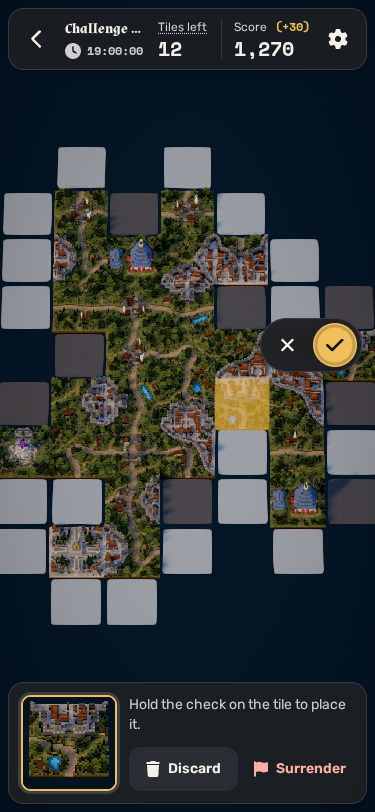
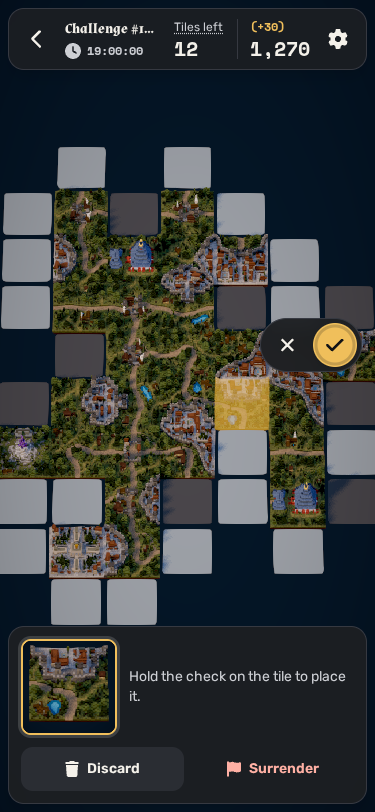
PLACE-POLISH: the hand panel and the HUD preview fit at 320 px (#568)
The wrap sweep found, at 320 px, Discard and Surrender overflowing beside the
tile in every board story, and the HUD clipped once the preview widened the
score's label line. Discard and Surrender now sit under the tile and the
hint, across the panel. Below the tablet width the preview takes the label's
place ("(+154)" over the score; "Score" kept for screen readers), so the
HUD's score column is no wider than without it; from the tablet width it
reads "Score (+154)". PreviewStress is main's Stress with the preview in
place of the gain. Captures retaken.

Changed region(s): [[0.0293, 0.7697, 0.9387, 0.9852], [0.4107, 0.0308, 0.8213, 0.0924], [0.352, 0.0308, 0.3813, 0.0616]]

diff --git a/packages/app/src/components/containers/hand-panel.tsx b/packages/app/src/components/containers/hand-panel.tsx
@@ -41,8 +41,8 @@ const EXPIRED_TEXT = "24 h passed since its purchase. Surrender to close it.";
 
 /**
  * The hand: the tile to place, Discard and Surrender, the hint and the errors. The placement is the bubble's, on the tile:
- * Rotate, Close and Validate, held (PLACE-POLISH, #568); the points it would score ride on the HUD's score. At 375 px the
- * tile stands left, the hint and the two buttons beside it, so the panel is about half its old height.
+ * Rotate, Close and Validate, held (PLACE-POLISH, #568); the points it would score ride on the HUD's score. The tile stands
+ * left with the hint beside it, Discard and Surrender under them across the panel (down to 320 px).
  */
 export function HandPanel({ tile, state, slotChosen, error, errorDetail, tileArt, renderTile, onDiscard, onSurrender, canSurrender = true, surrenderPending = false, coach, className }: HandPanelProps) {
   const busy = state === "pending";
@@ -65,7 +65,7 @@ export function HandPanel({ tile, state, slotChosen, error, errorDetail, tileArt
         message={state === "refused" ? (error ?? "Choose another slot.") : state === "expired" ? EXPIRED_TEXT : null}
         detail={errorDetail}
       />
-      <div className="flex items-stretch gap-3">
+      <div className="flex items-center gap-3">
         {/* Each `GameCanvas` owns its canvas and frees its WebGL context on unmount (R-dispose, #397). */}
         {renderTile && tile ? (
           <span data-view="render" className={chipVariants({ size: "lg", state: chipState })}>
@@ -74,28 +74,27 @@ export function HandPanel({ tile, state, slotChosen, error, errorDetail, tileArt
         ) : (
           <TileChip plan={tile?.plan ?? 0} orientation={tile?.orientation} art={tileArt} size="lg" state={chipState} />
         )}
-        <div className="flex min-w-0 flex-1 flex-col justify-between gap-2">
-          {/* What to do next: the rotation, the cancel and the placement are the bubble's, on the tile. */}
-          <p className="text-sm text-muted-foreground" data-testid="hand-hint">
-            {state === "placing" ? (slotChosen ? "Hold the check on the tile to place it." : "Tap a lit slot on the board.") : busy ? "Placing…" : null}
-          </p>
-          <div className={cn("grid gap-2", canSurrender ? "grid-cols-2" : "grid-cols-1")}>
-            <Button variant="secondary" onClick={onDiscard} disabled={locked || !tile} className={cn("px-2", coach === "discard" && COACH_RING)}>
-              <Icon name="trash" size="sm" /> Discard
-            </Button>
-            {canSurrender && (
-              <Button
-                variant={state === "expired" ? "destructive" : "ghost"}
-                onClick={onSurrender}
-                disabled={busy || state === "empty"}
-                loading={surrenderPending}
-                className={cn("px-2", state !== "expired" && "text-destructive-text hover:text-destructive-text")}
-              >
-                <Icon name="flag" size="sm" /> Surrender
-              </Button>
-            )}
-          </div>
-        </div>
+        {/* What to do next: the rotation, the cancel and the placement are the bubble's, on the tile. */}
+        <p className="min-w-0 flex-1 text-sm text-muted-foreground" data-testid="hand-hint">
+          {state === "placing" ? (slotChosen ? "Hold the check on the tile to place it." : "Tap a lit slot on the board.") : busy ? "Placing…" : null}
+        </p>
+      </div>
+      {/* Under the tile, the panel's whole width: beside it, two buttons do not fit at 320 px. */}
+      <div className={cn("grid gap-2", canSurrender ? "grid-cols-2" : "grid-cols-1")}>
+        <Button variant="secondary" onClick={onDiscard} disabled={locked || !tile} className={cn(coach === "discard" && COACH_RING)}>
+          <Icon name="trash" size="sm" /> Discard
+        </Button>
+        {canSurrender && (
+          <Button
+            variant={state === "expired" ? "destructive" : "ghost"}
+            onClick={onSurrender}
+            disabled={busy || state === "empty"}
+            loading={surrenderPending}
+            className={cn(state !== "expired" && "text-destructive-text hover:text-destructive-text")}
+          >
+            <Icon name="flag" size="sm" /> Surrender
+          </Button>
+        )}
       </div>
     </section>
   );

diff --git a/packages/app/src/components/elements/score.tsx b/packages/app/src/components/elements/score.tsx
@@ -34,8 +34,9 @@ export interface ScoreProps extends VariantProps<typeof scoreVariants> {
   /**
    * The points the tile placed, not yet validated, would score (the engine's preview, PLACE-POLISH, issue 568): "(+154)" in
    * the primary colour and in brackets, beside the value. With a label it rides on the label's line, in place of the last
-   * move's gain (`delta`, green, moving in), which it outdates: "Score (+154)" over "1,000" keeps the header's width at 375 px,
-   * where "1,000 (+154)" on one line left no room for the title beside the season wheel and the deck. Unset or null: none.
+   * move's gain (`delta`, green, moving in), which it outdates: "Score (+154)" over "1,000" from the tablet width; below it,
+   * "(+154)" over "1,000" (the label kept for screen readers), so the HUD keeps its width down to 320 px, where "1,000 (+154)"
+   * on one line left no room for the title beside the season wheel and the deck. Unset or null: none.
    */
   preview?: number | null;
   className?: string;
@@ -71,7 +72,8 @@ export function Score({ value, label, icon, iconClassName, delta, preview, size,
     <div className={cn("flex flex-col gap-1", className)}>
       {label && (
         <span className="flex items-baseline gap-2 text-xs text-muted-foreground">
-          {label}
+          {/* With a preview, below the tablet width the preview takes the label's place (read, not shown): the column keeps its width. */}
+          <span className={cn(previewed && "sr-only tablet:not-sr-only")}>{label}</span>
           {previewed ?? gain}
         </span>
       )}

diff --git a/packages/app/src/components/containers/game-hud.stories.tsx b/packages/app/src/components/containers/game-hud.stories.tsx
@@ -28,7 +28,7 @@ export const Stress: Story = { args: { title: LONG_LABEL, score: BIG_SCORE, delt
 export const WithWheel: Story = { args: { wheel: <SeasonWheel state="auto" point={{ season: "summer", position: 0.3 }} /> } };
 
 /**
- * A tile placed and not yet validated (#568): the points it would score beside the score, "Score (+154)" over "1,270", in
+ * A tile placed and not yet validated (#568): the points it would score over the score, "(+154)" over "1,270" on a phone ("Score (+154)" from the tablet width), in
  * the primary colour and in brackets, where a move's gain is green and moves in. At 375 px with the wheel, the deck and the
  * gear, the title keeps its room.
  */
@@ -38,8 +38,5 @@ export const WithPreview: Story = {
 };
 /** A gain was showing when the tile was placed: the preview takes its place (the gain is the last move's, outdated). */
 export const PreviewAfterAClosing: Story = { args: { score: 1640, delta: 370, preview: 154 } };
-/** WRAP360: the widest score with the widest preview at 375 px. */
-export const PreviewStress: Story = {
-  args: { title: LONG_LABEL, score: BIG_SCORE, preview: 9_999, onDeck: fn(), wheel: <SeasonWheel state="auto" point={{ season: "summer", position: 0.3 }} /> },
-  decorators: [(Story) => <div className="w-full max-w-[375px]"><Story /></div>],
-};
+/** WRAP360: `Stress` with the widest preview in place of the gain (the preview takes the gain's place on the label's line). */
+export const PreviewStress: Story = { args: { ...Stress.args, delta: undefined, preview: 9_999 } };

diff --git a/packages/app/src/components/containers/game-hud.tsx b/packages/app/src/components/containers/game-hud.tsx
@@ -12,7 +12,7 @@ export interface GameHudProps {
   score: number;
   /** Points the last move added. */
   delta?: number | null;
-  /** The points the tile placed and not yet validated would score: "Score (+154)" over the score (#568). */
+  /** The points the tile placed and not yet validated would score: "(+154)" over the score on a phone, "Score (+154)" from the tablet width (#568). */
   preview?: number | null;
   remaining: number;
   /** `GameView.expiresAt` of a Challenge game (start + 24 h); none for Training and Story. */

diff --git a/packages/app/__tests__/scenes.test.tsx b/packages/app/__tests__/scenes.test.tsx
@@ -225,7 +225,7 @@ describe("Board", () => {
     expect(onClose).toHaveBeenCalledTimes(2);
   });
 
-  it("the hand: the tile, the hint, Discard and Surrender on one row beside it", () => {
+  it("the hand: the tile and the hint, Discard and Surrender on one row under them", () => {
     render(wrap(<BoardScene {...BOARD.slotChosen} />));
     const discard = screen.getByRole("button", { name: /Discard/ });
     const surrender = screen.getByRole("button", { name: /Surrender/ });
